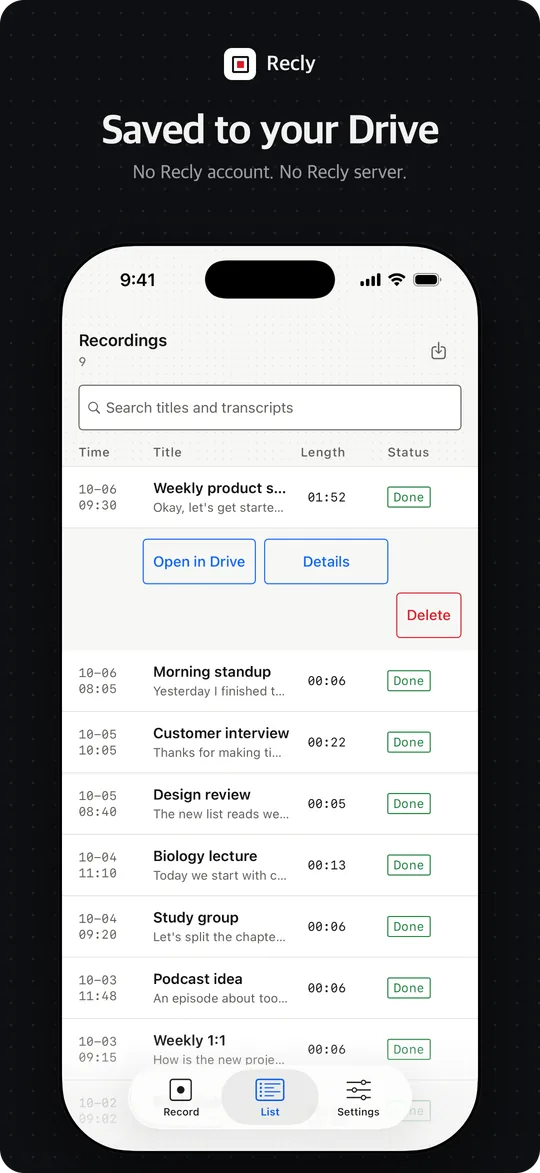
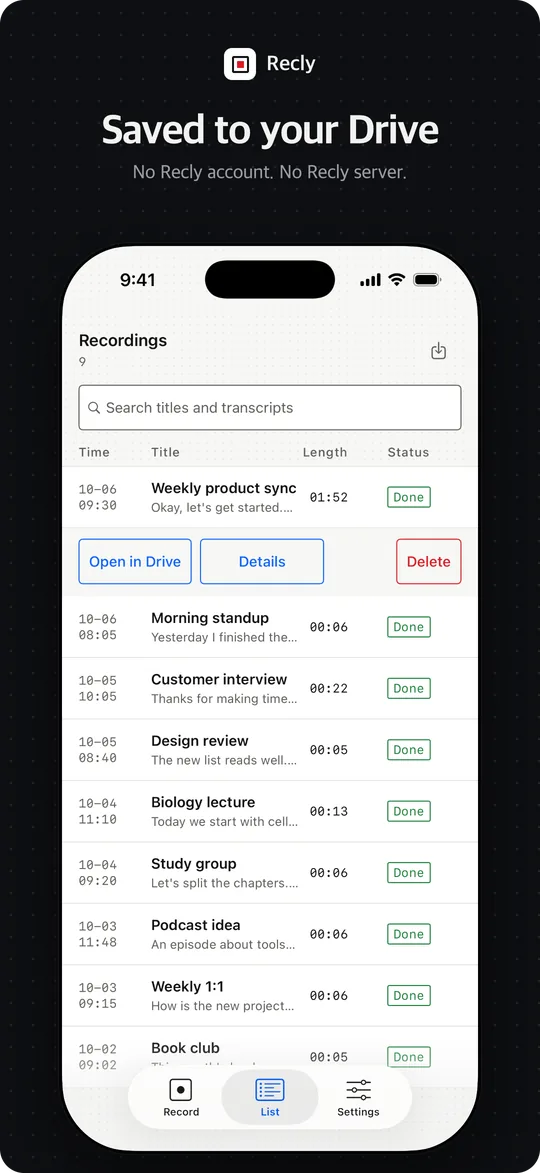
iPhone list: an opened row's actions from the gutter, and the title column Android's room
An opened row's actions started 78 pt in (neither the gutter nor the title column at 88), so a done row's
Open in Drive, Details and Delete (308 pt) did not fit the 308 pt left on a 402 pt phone and Delete went to a
line of its own. They now start at the row's 16 pt gutter, with the reason line above them: 370 pt at 402,
361 at 393, one line in English and Korean. §9 now says the iPhone flows from the gutter and Android from the
title cell.

The ledger's columns were 10 pt apart where Android's are Space.s, and the length column was a fixed 44 pt
for a 37 pt `00:00`. The gap is now Space.s, and the length column is as wide as `--:--` in the ledger's mono,
wider for a row past the hour and, in the header, for a heading wider than that (`Length`), which takes its
room from the header's title column rather than the rows'. The title column goes from 133 to 146 pt at 402 pt,
so "Weekly product sync" (141 pt) is no longer cut; longer titles still end in an ellipsis on one line. The
row is shared, so the Mac's popover and Details list get the same gaps and length column.

The README's 01 and 03 promo images are recaptured from this build.

diff --git a/apple/RecKit/Sources/RecKit/Design/LedgerRow.swift b/apple/RecKit/Sources/RecKit/Design/LedgerRow.swift
@@ -1,9 +1,32 @@
 import SwiftUI
 
-/// docs/09 screen principle 2: the ledger's four columns, in the widths the mockup sets.
+/// docs/09 screen principle 2: the ledger's four columns, in the widths the mockup sets, and the gap between two of
+/// them — Android's `COLUMN_GAP`. The length column is measured instead ([LengthColumn]).
 private enum Column {
     static let time: CGFloat = 62
-    static let length: CGFloat = 44
+    static let gap: CGFloat = Space.s
+}
+
+/// The length column: as wide as the placeholder `--:--` in the ledger's mono at the type size in use — what
+/// any length under the hour takes, as Android measures its own — and wider where the content is, aligned to
+/// its trailing edge. A row past the hour (`01:02:33`) takes the room from its own title; a heading wider than
+/// the lengths (`Length`) takes it from the header's title column, so neither is cut and the rows keep it.
+private struct LengthColumn<Content: View>: View {
+    @Environment(\.blueprint) private var blueprint
+    private let content: Content
+
+    init(@ViewBuilder content: () -> Content) {
+        self.content = content()
+    }
+
+    var body: some View {
+        ZStack(alignment: .trailing) {
+            Text(verbatim: LedgerFormat.noLength)
+                .font(blueprint.fonts.monoSmall)
+                .hidden()
+            content.fixedSize()
+        }
+    }
 }
 
 /// The status column: as wide as the widest badge the ledger can show, measured at the type size
@@ -121,10 +144,10 @@ public struct LedgerHeader: View {
 
     private var columns: some View {
         VStack(spacing: 0) {
-            HStack(spacing: 10) {
+            HStack(spacing: Column.gap) {
                 heading(time).frame(width: Column.time, alignment: .leading)
                 heading(title).frame(maxWidth: .infinity, alignment: .leading)
-                heading(length).frame(width: Column.length, alignment: .trailing)
+                LengthColumn { heading(length) }
                 StatusColumn { heading(status) }
             }
             .padding(.horizontal, Space.m)
@@ -267,14 +290,10 @@ public struct LedgerRow<Trailing: View>: View {
 
     /// Four columns, as docs/09 screen principle 2 draws the ledger.
     private var columns: some View {
-        HStack(spacing: 10) {
+        HStack(spacing: Column.gap) {
             when.frame(width: Column.time, alignment: .leading)
             what.frame(maxWidth: .infinity, alignment: .leading)
-            // At least the column's width, and wider for a recording past the hour (`01:02:33`)
-            // rather than cut: the row's title gives way, and the right edges still line up.
-            howLong
-                .fixedSize()
-                .frame(minWidth: Column.length, alignment: .trailing)
+            LengthColumn { howLong }
             StatusColumn {
                 StatusBadge(status, wraps: true)
                     .background {

diff --git a/apple/RecPhone/RecPhone/RecordingsView.swift b/apple/RecPhone/RecPhone/RecordingsView.swift
@@ -12,7 +12,6 @@ struct RecordingsView: View {
     /// Changes whenever the List tab is tapped: the ledger goes back to every row closed.
     var collapse = 0
     @Environment(\.blueprint) private var blueprint
-    @Environment(\.dynamicTypeSize) private var typeSize
     @State private var expanded: String?
     /// docs/08 "Result files": the recording whose transcript is being read, as a page over the list —
     /// the ledger has no navigation stack to push onto (docs/09 screen principle 2).
@@ -261,9 +260,9 @@ struct RecordingsView: View {
             // what the chips elsewhere do.
             actions(item)
         }
-        // The row's own time column is what the detail is indented past; at an accessibility size
-        // that column is no longer where the eye is, and the width matters more than the alignment.
-        .padding(.leading, typeSize.isAccessibilitySize ? Space.m : 78)
+        // From the row's own leading gutter, not the title column (2026-10-12): past the time column the three
+        // buttons of a done row no longer fit one line at 393–402 pt, and Delete went to a line of its own.
+        .padding(.leading, Space.m)
         .padding(.trailing, Space.m)
         .padding(.top, 10)
         .padding(.bottom, 12)

diff --git a/docs/recly.md b/docs/recly.md
@@ -2235,7 +2235,8 @@ python3 scripts/make-ico.py --check windows/app/src/main/icons/recly.ico
    `Retry` (**in the failure states `FAILED` · `NEEDS_AUTH` · `NEEDS_SPACE`, and in `RETRY`, which waits for backoff after a failure** (all four shells, 2026-09-04; excluding `TRANSCRIBING`, where the provider is transcribing — that is someone else's clock) **only**) · `Check the key` (`AUTH_REJECTED`) ·
    `Details` (opens the detail screen — on desktop, the window of the same name) · Delete (except while recording, importing or receiving from the watch;
    an upload, this device's or another's, offers it since 2026-10-08 — the core stops a running upload first, §3 "Retention · deletion"). On phones these
-   buttons are laid out in one flow from the row's title cell to the right edge, and `Delete` stands at the right end of the last line — if there is no room
+   buttons are laid out in one flow to the right edge — on Android from the row's title cell, on the iPhone from the row's leading gutter (2026-10-12: past
+   the time column, at 393–402 pt, a done row's three buttons did not fit one line) — and `Delete` stands at the right end of the last line — if there is no room
    for it, at the right end of the next line (2026-09-29, Android `ActionFlow` · Apple `ActionFlowLayout`). Previously `Delete` stood apart in its own cell under the status badge,
    and the other buttons wrapped by its width. An expanded row stays expanded only while the user stays on that screen: on phones, tapping the list
    tab again or going to another tab and back shows the initial list with every row collapsed (2026-10-01, both phones). Tapping the list
